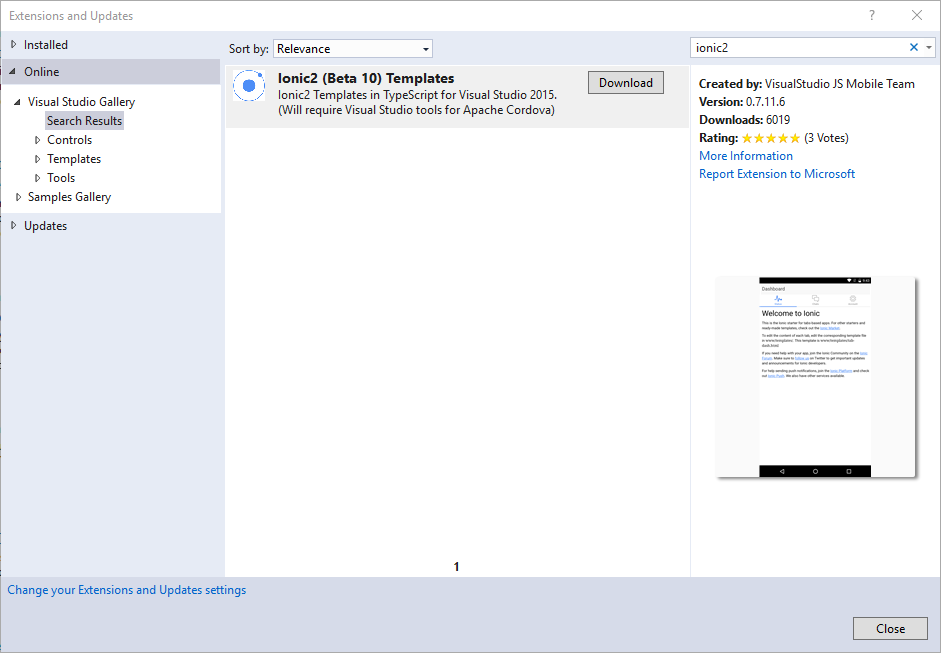
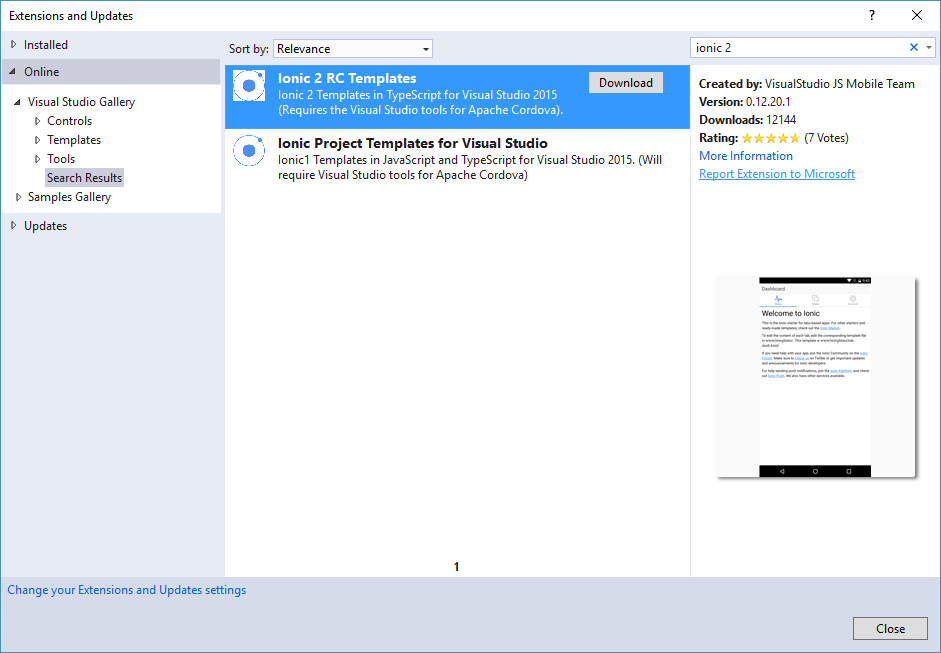
updated ionic template install figures

diff --git a/articles/getting-started/tutorial-ionic2.md b/articles/getting-started/tutorial-ionic2.md
@@ -33,7 +33,7 @@ To manage Ionic 2 applications using Visual Studio, you will need to install the
 
     > **Note:** Verify that you can create and run the default **Cordova Blank App**. In Visual Studio, open the **File** menu, select **New**, then **Project**. In the new project dialog, expand the **JavaScript** templates section, select **Apache Cordova Apps** then pick the **Blank App (Apache Cordova)** template. Give the new project a name and location then click the **OK** button. Press **F5** to build and run the new project in the **Ripple Emulator**. The Chrome browser should open and render the app's content. If you have any issues running the application, see these [troubleshooting steps](../tips-and-workarounds/general/tips-and-workarounds-general-readme.md).
 
-2.	Install the Ionic template in Visual Studio by selecting the **Tools** menu, then **Extensions and Updates...**. In the Extensions and Updates dialog box, select **Online**. In the search box located in the upper-right corner of the dialog, type **Ionic2**. Select the Microsoft Ionic templates in the list. Click the **Download** button to initiate the installation process.
+2.	Install the Ionic template in Visual Studio by selecting the **Tools** menu, then **Extensions and Updates...**. In the Extensions and Updates dialog box, select **Online**. In the search box located in the upper-right corner of the dialog, type **Ionic 2**. Select the **Ionic 2 RC Templates** option in the list. Click the **Download** button to initiate the installation process.
 	
 	![Getting the templates](media/tutorial-ionic2/figure-01.png)
 
@@ -41,7 +41,7 @@ To manage Ionic 2 applications using Visual Studio, you will need to install the
 
 	![Installing the templates](media/tutorial-ionic2/figure-02.png)
    
-3.	The Ionic templates will not appear in Visual Studio until it's restarted. Close, then re-open Visual Studio.
+3.	The Ionic templates may not appear in Visual Studio until it's restarted. Close, then re-open Visual Studio.
 
 ## Creating an Ionic Project in Visual Studio
 
